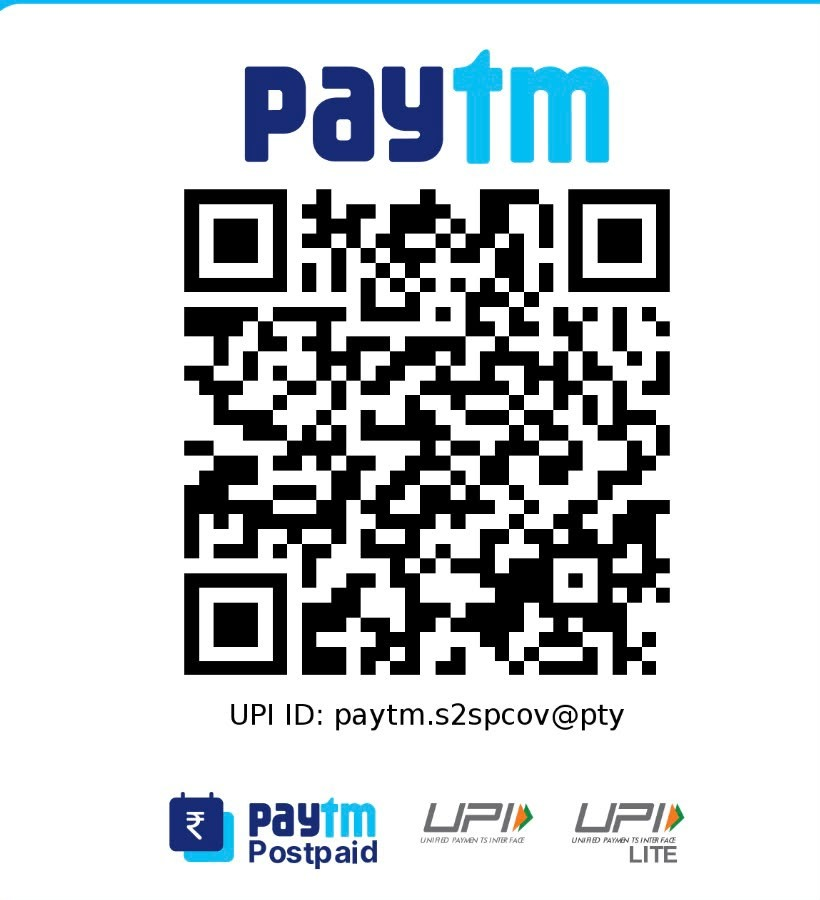
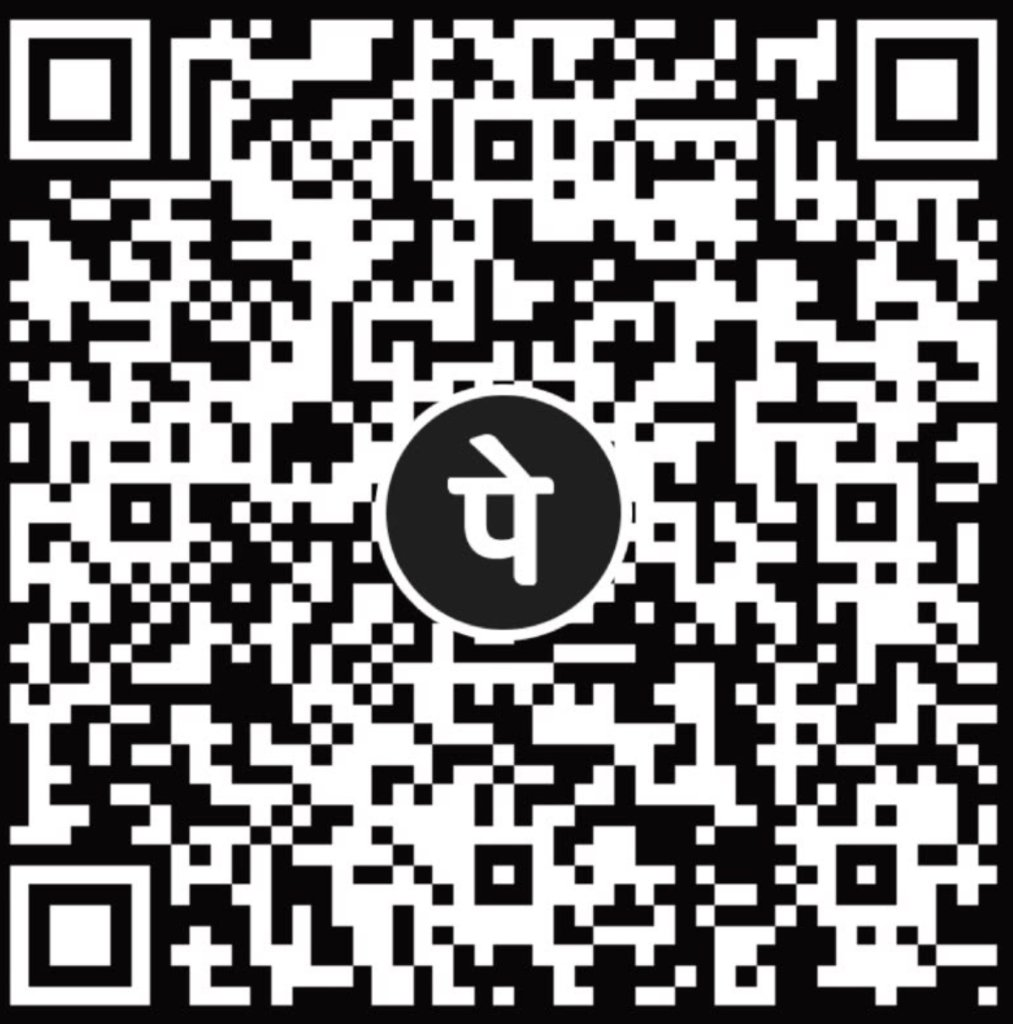
feat(workshop): update UPI payment QR to PhonePe (9494768069@axl - BAGGU MOHITH KUMAR) with dynamic amount

diff --git a/Chocoloom Website/workshop/index.html b/Chocoloom Website/workshop/index.html
@@ -640,7 +640,7 @@
 
             <div class="modal-head">
                 <span class="modal-badge"><i class="fa-solid fa-shield-halved"></i> Verified UPI Checkout</span>
-                <h3 class="modal-title">Pay via Paytm / UPI QR</h3>
+                <h3 class="modal-title">Pay via PhonePe / UPI QR</h3>
                 <p style="font-size: 13px; color: var(--text-muted); margin-top: 4px;">Scan the QR code with any UPI app to confirm your workshop seat.</p>
             </div>
 
@@ -654,8 +654,8 @@
                 <div class="pay-method-opt selected" style="cursor: default;">
                     <input type="radio" name="payMethod" value="upi" checked style="accent-color: var(--primary); pointer-events: none;">
                     <div class="pmo-content">
-                        <div class="pmo-title"><i class="fa-solid fa-qrcode" style="color: #00baf2;"></i> Paytm / UPI QR</div>
-                        <div class="pmo-desc">GPay, PhonePe, Paytm, BHIM or any UPI app</div>
+                        <div class="pmo-title"><i class="fa-solid fa-qrcode" style="color: #5f259f;"></i> PhonePe / UPI QR</div>
+                        <div class="pmo-desc">PhonePe, GPay, Paytm, BHIM or any UPI app</div>
                     </div>
                 </div>
             </div>
@@ -670,26 +670,29 @@
                     </div>
 
                     <div class="upi-qr-frame">
-                        <img src="https://api.qrserver.com/v1/create-qr-code/?size=260x260&margin=8&data=upi%3A%2F%2Fpay%3Fpa%3Dpaytm.s2spcov%40pty%26pn%3DChocoloom%2520Workshop%26mc%3D5462%26am%3D499%26cu%3DINR%26tn%3DChocoloom%2520Workshop%2520Pass" alt="Chocoloom Official Paytm UPI QR Code" class="upi-qr-img" id="paytmQrImg">
+                        <img src="https://api.qrserver.com/v1/create-qr-code/?size=260x260&margin=8&data=upi%3A%2F%2Fpay%3Fpa%3D9494768069%40axl%26pn%3DBAGGU%2520MOHITH%2520KUMAR%26mc%3D0000%26mode%3D02%26purpose%3D00%26am%3D499%26cu%3DINR%26tn%3DChocoloom%2520Workshop%2520Pass" alt="Chocoloom Official PhonePe UPI QR Code" class="upi-qr-img" id="paytmQrImg">
                     </div>
 
                     <div class="upi-apps-row">
                         <span>Works with:</span>
+                        <strong style="color: #5f259f;"><i class="fa-solid fa-mobile-screen"></i> PhonePe</strong>
                         <strong style="color: #4285f4;"><i class="fa-brands fa-google-pay"></i> GPay</strong>
-                        <strong style="color: #5f259f;">PhonePe</strong>
                         <strong style="color: #00baf2;">Paytm</strong>
                         <strong style="color: #f37021;">BHIM</strong>
                         <span>& all UPI apps</span>
                     </div>
 
-                    <div class="upi-id-pill" onclick="copyUpiId('paytm.s2spcov@pty')" title="Click to copy UPI ID">
+                    <div class="upi-id-pill" onclick="copyUpiId('9494768069@axl')" title="Click to copy UPI ID">
                         <span class="uip-label">UPI ID:</span>
-                        <strong class="uip-val">paytm.s2spcov@pty</strong>
+                        <strong class="uip-val">9494768069@axl</strong>
                         <i class="fa-regular fa-copy uip-icon" id="copyUpiIcon"></i>
+                    </div>
+                    <div style="font-size: 11.5px; color: var(--text-muted); text-align: center; margin-top: -8px; margin-bottom: 12px;">
+                        <span>Verified Payee: <strong>BAGGU MOHITH KUMAR</strong></span>
                     </div>
 
                     <!-- Direct One-Tap Mobile Payment Intent -->
-                    <a id="btnPayUpiDirect" href="upi://pay?pa=paytm.s2spcov@pty&pn=Chocoloom%20Workshop&mc=5462&cu=INR" class="btn-upi-mobile">
+                    <a id="btnPayUpiDirect" href="upi://pay?pa=9494768069@axl&pn=BAGGU%20MOHITH%20KUMAR&mc=0000&mode=02&purpose=00&am=499&cu=INR&tn=Chocoloom%20Workshop%20Pass" class="btn-upi-mobile">
                         <i class="fa-solid fa-bolt"></i>
                         <span>Tap to Pay on UPI App (Mobile)</span>
                     </a>

diff --git a/Chocoloom Workshop/index.html b/Chocoloom Workshop/index.html
@@ -640,7 +640,7 @@
 
             <div class="modal-head">
                 <span class="modal-badge"><i class="fa-solid fa-shield-halved"></i> Verified UPI Checkout</span>
-                <h3 class="modal-title">Pay via Paytm / UPI QR</h3>
+                <h3 class="modal-title">Pay via PhonePe / UPI QR</h3>
                 <p style="font-size: 13px; color: var(--text-muted); margin-top: 4px;">Scan the QR code with any UPI app to confirm your workshop seat.</p>
             </div>
 
@@ -654,8 +654,8 @@
                 <div class="pay-method-opt selected" style="cursor: default;">
                     <input type="radio" name="payMethod" value="upi" checked style="accent-color: var(--primary); pointer-events: none;">
                     <div class="pmo-content">
-                        <div class="pmo-title"><i class="fa-solid fa-qrcode" style="color: #00baf2;"></i> Paytm / UPI QR</div>
-                        <div class="pmo-desc">GPay, PhonePe, Paytm, BHIM or any UPI app</div>
+                        <div class="pmo-title"><i class="fa-solid fa-qrcode" style="color: #5f259f;"></i> PhonePe / UPI QR</div>
+                        <div class="pmo-desc">PhonePe, GPay, Paytm, BHIM or any UPI app</div>
                     </div>
                 </div>
             </div>
@@ -670,26 +670,29 @@
                     </div>
 
                     <div class="upi-qr-frame">
-                        <img src="https://api.qrserver.com/v1/create-qr-code/?size=260x260&margin=8&data=upi%3A%2F%2Fpay%3Fpa%3Dpaytm.s2spcov%40pty%26pn%3DChocoloom%2520Workshop%26mc%3D5462%26am%3D499%26cu%3DINR%26tn%3DChocoloom%2520Workshop%2520Pass" alt="Chocoloom Official Paytm UPI QR Code" class="upi-qr-img" id="paytmQrImg">
+                        <img src="https://api.qrserver.com/v1/create-qr-code/?size=260x260&margin=8&data=upi%3A%2F%2Fpay%3Fpa%3D9494768069%40axl%26pn%3DBAGGU%2520MOHITH%2520KUMAR%26mc%3D0000%26mode%3D02%26purpose%3D00%26am%3D499%26cu%3DINR%26tn%3DChocoloom%2520Workshop%2520Pass" alt="Chocoloom Official PhonePe UPI QR Code" class="upi-qr-img" id="paytmQrImg">
                     </div>
 
                     <div class="upi-apps-row">
                         <span>Works with:</span>
+                        <strong style="color: #5f259f;"><i class="fa-solid fa-mobile-screen"></i> PhonePe</strong>
                         <strong style="color: #4285f4;"><i class="fa-brands fa-google-pay"></i> GPay</strong>
-                        <strong style="color: #5f259f;">PhonePe</strong>
                         <strong style="color: #00baf2;">Paytm</strong>
                         <strong style="color: #f37021;">BHIM</strong>
                         <span>& all UPI apps</span>
                     </div>
 
-                    <div class="upi-id-pill" onclick="copyUpiId('paytm.s2spcov@pty')" title="Click to copy UPI ID">
+                    <div class="upi-id-pill" onclick="copyUpiId('9494768069@axl')" title="Click to copy UPI ID">
                         <span class="uip-label">UPI ID:</span>
-                        <strong class="uip-val">paytm.s2spcov@pty</strong>
+                        <strong class="uip-val">9494768069@axl</strong>
                         <i class="fa-regular fa-copy uip-icon" id="copyUpiIcon"></i>
+                    </div>
+                    <div style="font-size: 11.5px; color: var(--text-muted); text-align: center; margin-top: -8px; margin-bottom: 12px;">
+                        <span>Verified Payee: <strong>BAGGU MOHITH KUMAR</strong></span>
                     </div>
 
                     <!-- Direct One-Tap Mobile Payment Intent -->
-                    <a id="btnPayUpiDirect" href="upi://pay?pa=paytm.s2spcov@pty&pn=Chocoloom%20Workshop&mc=5462&cu=INR" class="btn-upi-mobile">
+                    <a id="btnPayUpiDirect" href="upi://pay?pa=9494768069@axl&pn=BAGGU%20MOHITH%20KUMAR&mc=0000&mode=02&purpose=00&am=499&cu=INR&tn=Chocoloom%20Workshop%20Pass" class="btn-upi-mobile">
                         <i class="fa-solid fa-bolt"></i>
                         <span>Tap to Pay on UPI App (Mobile)</span>
                     </a>

diff --git a/Chocoloom Website/workshop/workshop.js b/Chocoloom Website/workshop/workshop.js
@@ -254,7 +254,7 @@
         if (qrDynamicAmount) qrDynamicAmount.textContent = `₹${total}`;
 
         // Construct standard dynamic UPI Intent String with exact amount pre-filled
-        const upiString = `upi://pay?pa=paytm.s2spcov@pty&pn=Chocoloom%20Workshop&mc=5462&am=${total}&cu=INR&tn=Chocoloom%20Workshop%20Pass`;
+        const upiString = `upi://pay?pa=9494768069@axl&pn=BAGGU%20MOHITH%20KUMAR&mc=0000&mode=02&purpose=00&am=${total}&cu=INR&tn=Chocoloom%20Workshop%20Pass`;
 
         const btnUpiDirect = document.getElementById('btnPayUpiDirect');
         if (btnUpiDirect) {
@@ -397,7 +397,7 @@
     };
 
     window.copyUpiId = function (upiId) {
-        const text = upiId || 'paytm.s2spcov@pty';
+        const text = upiId || '9494768069@axl';
         const fallbackCopy = (val) => {
             const temp = document.createElement('textarea');
             temp.value = val;

diff --git a/Chocoloom Workshop/workshop.js b/Chocoloom Workshop/workshop.js
@@ -254,7 +254,7 @@
         if (qrDynamicAmount) qrDynamicAmount.textContent = `₹${total}`;
 
         // Construct standard dynamic UPI Intent String with exact amount pre-filled
-        const upiString = `upi://pay?pa=paytm.s2spcov@pty&pn=Chocoloom%20Workshop&mc=5462&am=${total}&cu=INR&tn=Chocoloom%20Workshop%20Pass`;
+        const upiString = `upi://pay?pa=9494768069@axl&pn=BAGGU%20MOHITH%20KUMAR&mc=0000&mode=02&purpose=00&am=${total}&cu=INR&tn=Chocoloom%20Workshop%20Pass`;
 
         const btnUpiDirect = document.getElementById('btnPayUpiDirect');
         if (btnUpiDirect) {
@@ -397,7 +397,7 @@
     };
 
     window.copyUpiId = function (upiId) {
-        const text = upiId || 'paytm.s2spcov@pty';
+        const text = upiId || '9494768069@axl';
         const fallbackCopy = (val) => {
             const temp = document.createElement('textarea');
             temp.value = val;

diff --git a/Chocoloom Website/workshop/admin.js b/Chocoloom Website/workshop/admin.js
@@ -736,7 +736,7 @@
                         <div class="amount-val">₹${amount}</div>
                         <div class="pay-method-tag">
                             <i class="fa-solid ${item.payMethod === 'upi' ? 'fa-qrcode' : (isPending ? 'fa-hourglass-half' : 'fa-cash-register')}"></i>
-                            <span>${item.payMethod === 'upi' ? 'Paytm UPI' : (isPending ? 'UPI Pending' : 'Counter')}</span>
+                            <span>${item.payMethod === 'upi' ? 'PhonePe UPI' : (isPending ? 'UPI Pending' : 'Counter')}</span>
                         </div>
                         ${item.paymentScreenshot ? `
                             <button type="button" class="screenshot-thumb-btn" onclick="openScreenshotModal('${item.id}')" title="Click to view payment receipt screenshot">

diff --git a/Chocoloom Workshop/admin.js b/Chocoloom Workshop/admin.js
@@ -736,7 +736,7 @@
                         <div class="amount-val">₹${amount}</div>
                         <div class="pay-method-tag">
                             <i class="fa-solid ${item.payMethod === 'upi' ? 'fa-qrcode' : (isPending ? 'fa-hourglass-half' : 'fa-cash-register')}"></i>
-                            <span>${item.payMethod === 'upi' ? 'Paytm UPI' : (isPending ? 'UPI Pending' : 'Counter')}</span>
+                            <span>${item.payMethod === 'upi' ? 'PhonePe UPI' : (isPending ? 'UPI Pending' : 'Counter')}</span>
                         </div>
                         ${item.paymentScreenshot ? `
                             <button type="button" class="screenshot-thumb-btn" onclick="openScreenshotModal('${item.id}')" title="Click to view payment receipt screenshot">

diff --git a/Chocoloom Website/workshop/admin.html b/Chocoloom Website/workshop/admin.html
@@ -418,7 +418,7 @@
                     <div class="form-group">
                         <label class="form-label" for="manualPayMethod">Payment Method *</label>
                         <select id="manualPayMethod" class="form-select">
-                            <option value="upi">Paytm / UPI QR (Paid)</option>
+                            <option value="upi">PhonePe / UPI QR (Paid)</option>
                             <option value="counter">Pay at Counter (Cash/Card upon arrival)</option>
                             <option value="card">Card / POS Swiped</option>
                         </select>

diff --git a/Chocoloom Workshop/admin.html b/Chocoloom Workshop/admin.html
@@ -418,7 +418,7 @@
                     <div class="form-group">
                         <label class="form-label" for="manualPayMethod">Payment Method *</label>
                         <select id="manualPayMethod" class="form-select">
-                            <option value="upi">Paytm / UPI QR (Paid)</option>
+                            <option value="upi">PhonePe / UPI QR (Paid)</option>
                             <option value="counter">Pay at Counter (Cash/Card upon arrival)</option>
                             <option value="card">Card / POS Swiped</option>
                         </select>
